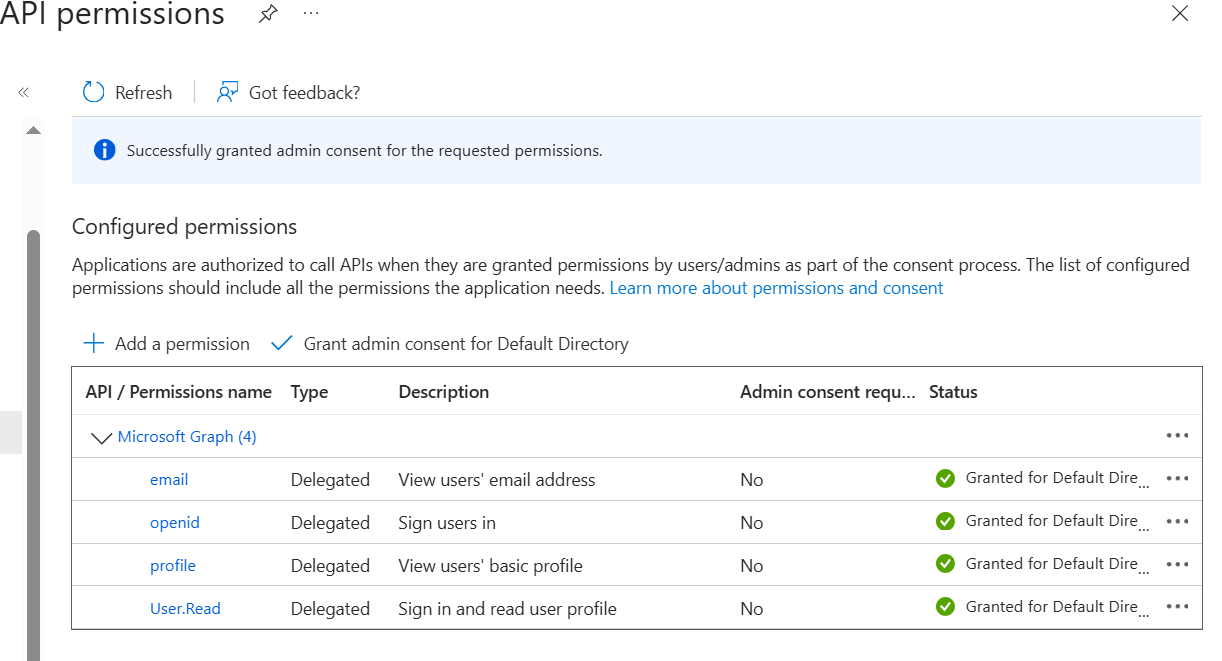
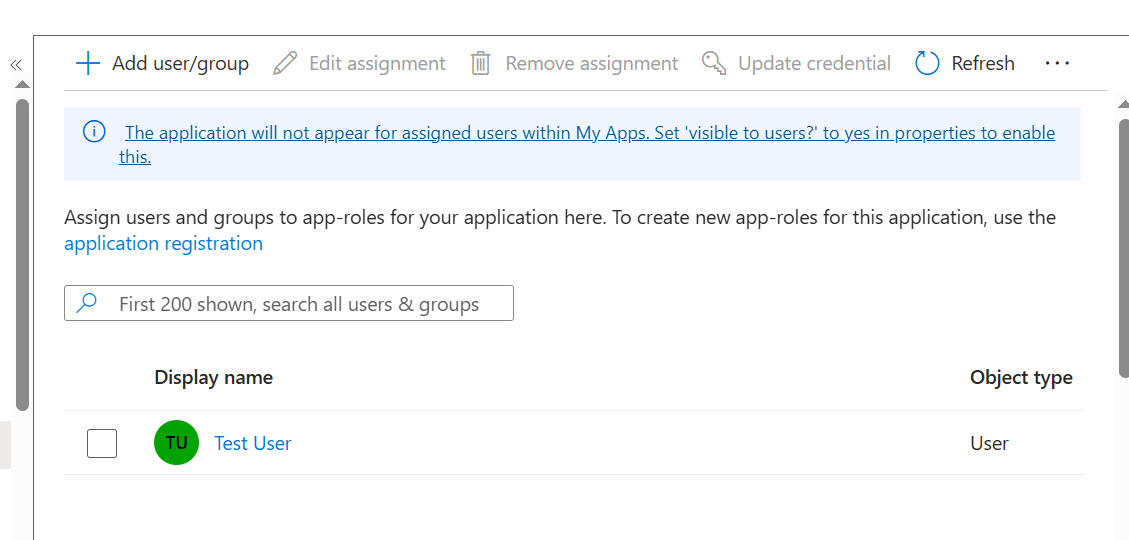
docs: address PR feedback, fix endpoints, and update screenshots

diff --git a/assets/kgw-docs/pages/security/entra-id/setup.md b/assets/kgw-docs/pages/security/entra-id/setup.md
@@ -16,14 +16,14 @@ When you finish, you choose an authentication flow:
    | **Supported account types** | Accounts in this organizational directory only |
    | **Platform** | Web |
    | **Redirect URI** | `https://www.example.com/oauth2/redirect` |
-   | **Front-channel logout URL** | `https://www.example.com` |
 
+   
    The redirect URI path is `/oauth2/redirect`, which is the default callback path that kgateway registers. You can override it with `redirectURI` in the `GatewayExtension` if needed.
 
 2. A test user created in your Entra ID directory and assigned to the App Registration.
 
 > [!IMPORTANT]
-> **Entra ID token version finding:** When you configure custom API scopes (as required for access token validation), Entra ID issues **v1.0 tokens**, even if you configure the manifest for v2.0. This means the `iss` claim will be `https://sts.windows.net/{tenant-id}/` and the JWKS endpoint will be `https://login.microsoftonline.com/{tenant-id}/discovery/keys`. This is different from the standard v2.0 endpoints (`/v2.0` and `/discovery/v2.0/keys`). You must use the v1.0 endpoints in your `GatewayExtension`.
+> By default, Entra ID issues **v1.0 access tokens** for an API that you expose on your App Registration. A v1.0 token has the `iss` claim `https://sts.windows.net/{tenant-id}/` and an `aud` claim of your Application ID URI, such as `api://{client-id}`. Its signing keys are at `https://login.microsoftonline.com/{tenant-id}/discovery/keys`. These values differ from the v2.0 values (`/v2.0` and `/discovery/v2.0/keys`), so use the v1.0 values in the access token validation flow. To get v2.0 tokens instead, set `requestedAccessTokenVersion` to `2` in the App Registration manifest.
 
 ## Configure Microsoft Entra ID
 
@@ -43,14 +43,8 @@ Kgateway is a server-side confidential client. It holds the client secret and pe
 
    {{< reuse-image src="img/entra-id/entra-create-app.png" >}}
 
-### Configure Authentication and Logout
 
-1. On the App Registration page, go to **Authentication**.
-2. Under **Front-channel logout URL**, enter `https://www.example.com`.
-3. Under **Implicit grant and hybrid flows**, leave both checkboxes unchecked (we use the Authorization Code flow).
-4. Click **Save**.
-
-### Expose an API Scope
+### Expose an API scope
 
 To use the access token validation flow, you must define a custom scope.
 
@@ -58,7 +52,7 @@ To use the access token validation flow, you must define a custom scope.
 2. Click **Set** next to Application ID URI. Accept the default `api://{client-id}` and click **Save**.
 3. Click **Add a scope**:
    * **Scope name**: `access_as_user`
-   * **Who can consent**: Admins and users
+   * **Who can consent**: Admins only
    * **Admin consent display name**: Access kgateway as the user
    * **Admin consent description**: Allows the app to access kgateway on behalf of the signed-in user
    * **State**: Enabled
@@ -66,17 +60,22 @@ To use the access token validation flow, you must define a custom scope.
 
    {{< reuse-image src="img/entra-id/entra-expose-scope.png" >}}
 
-### Copy the Client ID and Client Secret
+5. Go to **API permissions** > **Add a permission** > **My APIs** > **kgateway-app**.
+6. Select **Delegated permissions**, check `access_as_user`, and click **Add permissions**.
+7. Click **Grant admin consent for [Your Tenant]**.
 
-1. Go to **Overview** and copy the **Application (client) ID**.
+### Copy the tenant ID, client ID, and client secret
+
+1. Go to **Overview**. Copy the **Application (client) ID** and the **Directory (tenant) ID**. The flow guides use these values for `YOUR_CLIENT_ID` and `YOUR_TENANT_ID`.
 2. Go to **Certificates & secrets** > **Client secrets**, and click **New client secret**.
-3. Add a description (e.g., `kgateway-secret`) and select an expiry period. Click **Add**.
-4. **Copy the secret value immediately.** It will not be shown again.
+3. Add a description, such as `kgateway-secret`, and select an expiry period. Click **Add**.
+4. **Copy the secret value immediately.**
 
    {{< reuse-image src="img/entra-id/entra-client-credentials.png" >}}
 
+
    > [!NOTE]
-   > The Client Secret is shown only once after creation. If you lose it, you can generate a new one, but generating a new one invalidates any existing tokens.
+   > Entra ID shows the secret value only once, right after you create it. If you lose it, create a new client secret and update the Kubernetes Secret. Then delete the old client secret from the App Registration.
 
 ### Create a test user {#create-test-user}
 
@@ -90,12 +89,15 @@ To use the access token validation flow, you must define a custom scope.
 
    {{< reuse-image src="img/entra-id/entra-create-user.png" >}}
 
-5. Go back to your App Registration > **Enterprise applications** > **kgateway-app** > **Users and groups**.
+5. Go to **Applications** > **Enterprise applications** > **kgateway-app** > **Users and groups**.
 6. Click **Add user/group**, select the test user, and assign them to the app.
 
    {{< reuse-image src="img/entra-id/entra-assign-user.png" >}}
 
-   
+   > [!NOTE]
+   > User assignment only takes effect if **Assignment required?** is set to **Yes** in the Enterprise Application's Properties.
+
+
 ## Connect kgateway to Microsoft Entra ID
 
 Both authentication flows need a network path from the gateway to Entra ID. Create these two resources before configuring either flow.

diff --git a/assets/kgw-docs/pages/security/entra-id/access-token.md b/assets/kgw-docs/pages/security/entra-id/access-token.md
@@ -7,7 +7,7 @@ Complete the [Microsoft Entra ID setup]({{< link-hextra path="/security/oauth/en
 This flow does not need the client secret in a Kubernetes Secret. The gateway does not exchange an authorization code. The flow also works over HTTP because it does not use cookies.
 
 > [!IMPORTANT]
-> **Entra ID uses v1.0 tokens:** Because we configured a custom API scope, Entra ID issues v1.0 tokens. The `issuer` must be `https://sts.windows.net/{tenant-id}/` and the `jwks` URL must be `https://login.microsoftonline.com/{tenant-id}/discovery/keys`. If you use the standard v2.0 endpoints (`/v2.0`), token validation will fail.
+> By default, Entra ID issues **v1.0 access tokens** for an API that you expose on your App Registration. A v1.0 token has the `iss` claim `https://sts.windows.net/{tenant-id}/` and an `aud` claim of your Application ID URI, such as `api://{client-id}`. Its signing keys are at `https://login.microsoftonline.com/{tenant-id}/discovery/keys`. These values differ from the v2.0 values (`/v2.0` and `/discovery/v2.0/keys`), so use the v1.0 values in the access token validation flow. To get v2.0 tokens instead, set `requestedAccessTokenVersion` to `2` in the App Registration manifest.
 
 ## Configure access token validation
 
@@ -40,7 +40,7 @@ Create a `GatewayExtension` to configure token validation. Then create a `Traffi
              - api://YOUR_CLIENT_ID
    EOF
    ```
-
+   
    | **Field** | **Description** |
    | :--- | :--- |
    | `name` | A required, unique name for the provider. |
@@ -51,6 +51,7 @@ Create a `GatewayExtension` to configure token validation. Then create a `Traffi
 
    > [!NOTE]
    > The `validationMode` field is optional and defaults to `Strict`. This mode requires a valid JWT on every request. Set it to `AllowMissing` only if you want requests without a token to pass through. Pair that mode with an authorization policy that restricts those requests.
+
 
 2. Create a {{< reuse "kgw-docs/snippets/trafficpolicy.md" >}} that references the JWT GatewayExtension. Make sure that the {{< reuse "kgw-docs/snippets/trafficpolicy.md" >}} is in the same namespace as the HTTPRoute that it targets.
 
@@ -118,13 +119,29 @@ Verify the access token validation flow with these steps.
 
 2. Obtain an access token from the Entra ID authorization server.
 
-   The JWT policy validates the signature, issuer, and audience of the token you present. Use the authorization code flow in a browser to log in and copy the value of the `AccessToken` cookie set by the gateway.
+   The JWT policy validates the signature, issuer, and audience of the token that you present. Complete the [authorization code flow]({{< link-hextra path="/security/oauth/entra-id/authorization-code/" >}}) in a browser. Then copy the value of the `AccessToken-<suffix>` cookie that the gateway sets, such as `AccessToken-a1b2c3d4`.
 
    ```sh
    export TOKEN=<access-token-cookie-value>
    ```
 
-3. Send a request with the token in the `Authorization` header.
+3. Confirm that the token's `iss` and `aud` claims match your `GatewayExtension`.
+
+   ```sh
+   echo $TOKEN | jq -rR 'split(".")[1] | gsub("-"; "+") | gsub("_"; "/") | @base64d | fromjson | {iss, aud, ver}'
+   ```
+
+   Example output for a v1.0 token:
+
+   ```json
+   {
+     "iss": "https://sts.windows.net/YOUR_TENANT_ID/",
+     "aud": "api://YOUR_CLIENT_ID",
+     "ver": "1.0"
+   }
+   ```
+                        
+4. Send a request with the token in the `Authorization` header.
 
    {{< tabs >}}
    {{% tab name="Cloud Provider LoadBalancer" %}}

diff --git a/assets/kgw-docs/pages/security/entra-id/authorization-code.md b/assets/kgw-docs/pages/security/entra-id/authorization-code.md
@@ -20,9 +20,6 @@ Create the Kubernetes Secret that holds the Entra ID client secret, a `GatewayEx
 
 2. Create a GatewayExtension that holds everything the gateway needs to talk to Entra ID.
 
-   > [!IMPORTANT]
-   > **Entra ID uses v1.0 endpoints:** Because we configured a custom API scope, Entra ID issues v1.0 tokens. The `issuerURI` must point to the v1.0 endpoint (`sts.windows.net`), not the standard `/v2.0` path. If you use the v2.0 paths, token validation will fail.
-
    ```yaml
    kubectl apply -f- <<EOF
    apiVersion: gateway.kgateway.dev/v1alpha1
@@ -38,9 +35,9 @@ Create the Kubernetes Secret that holds the Entra ID client secret, a `GatewayEx
          name: entra-id
          namespace: {{< reuse "kgw-docs/snippets/namespace.md" >}}
        issuerURI: https://sts.windows.net/YOUR_TENANT_ID/
-       authorizationEndpoint: https://login.microsoftonline.com/YOUR_TENANT_ID/oauth2/authorize
-       tokenEndpoint: https://login.microsoftonline.com/YOUR_TENANT_ID/oauth2/token
-       endSessionEndpoint: https://login.microsoftonline.com/YOUR_TENANT_ID/oauth2/logout
+       authorizationEndpoint: https://login.microsoftonline.com/YOUR_TENANT_ID/oauth2/v2.0/authorize
+       tokenEndpoint: https://login.microsoftonline.com/YOUR_TENANT_ID/oauth2/v2.0/token
+       endSessionEndpoint: https://login.microsoftonline.com/YOUR_TENANT_ID/oauth2/v2.0/logout
        redirectURI: https://www.example.com/oauth2/redirect
        scopes:
          - openid
@@ -53,6 +50,7 @@ Create the Kubernetes Secret that holds the Entra ID client secret, a `GatewayEx
            name: entra-id-client-secret
    EOF
    ```
+
 
    | **Field** | **Description** |
    | :--- | :--- |
@@ -88,6 +86,8 @@ Create the Kubernetes Secret that holds the Entra ID client secret, a `GatewayEx
          name: entra-id-oauth2
          namespace: {{< reuse "kgw-docs/snippets/namespace.md" >}}
    EOF
+   ```
+
 4. Verify that the policy is attached to the route.
 
    ```sh
@@ -121,7 +121,7 @@ Create the Kubernetes Secret that holds the Entra ID client secret, a `GatewayEx
 
    ```text
    < HTTP/2 302
-   < location: https://login.microsoftonline.com/YOUR_TENANT_ID/oauth2/authorize?client_id=YOUR_CLIENT_ID&...&redirect_uri=https%3A%2F%2Fwww.example.com%2Foauth2%2Fredirect
+   < location: https://login.microsoftonline.com/YOUR_TENANT_ID/oauth2/v2.0/authorize?client_id=YOUR_CLIENT_ID&...&redirect_uri=https%3A%2F%2Fwww.example.com%2Foauth2%2Fredirect
    < set-cookie: OauthNonce-...;path=/;Max-Age=600;secure;HttpOnly
    ```
 

diff --git a/content/docs/envoy/main/security/oauth/entra-id/setup.md b/content/docs/envoy/main/security/oauth/entra-id/setup.md
@@ -1,0 +1,7 @@
+---
+title: Microsoft Entra ID setup
+weight: 10
+description: Deploy Microsoft Entra ID, register kgateway as an OAuth2 client, and give the gateway a network path to reach it.
+---
+
+{{< reuse "kgw-docs/pages/security/entra-id/setup.md" >}}

diff --git a/content/docs/envoy/main/security/oauth/entra-id/authorization-code.md b/content/docs/envoy/main/security/oauth/entra-id/authorization-code.md
@@ -1,0 +1,7 @@
+---
+title: Authorization code flow
+weight: 20
+description: Redirect browser users to Microsoft Entra ID to log in, then store their tokens in session cookies.
+---
+
+{{< reuse "kgw-docs/pages/security/entra-id/authorization-code.md" >}}

diff --git a/content/docs/envoy/main/security/oauth/entra-id/_index.md b/content/docs/envoy/main/security/oauth/entra-id/_index.md
@@ -1,0 +1,7 @@
+---
+aliases:
+  - /docs/envoy/latest/security/oauth2/entra-id/
+title: Microsoft Entra ID
+weight: 10
+description: Protect routes with Microsoft Entra ID as the identity provider, using either browser login or API token validation.
+---

diff --git a/content/docs/envoy/main/security/oauth/entra-id/access-token.md b/content/docs/envoy/main/security/oauth/entra-id/access-token.md
@@ -1,0 +1,7 @@
+---
+title: Access token validation
+weight: 30
+description: Validate an access token that an API client already holds, and reject requests without a valid one.
+---
+
+{{< reuse "kgw-docs/pages/security/entra-id/access-token.md" >}}

diff --git a/content/docs/envoy/latest/security/oauth/entra-id/setup.md b/content/docs/envoy/latest/security/oauth/entra-id/setup.md
@@ -1,4 +1,4 @@
----
+---
 title: Microsoft Entra ID setup
 weight: 10
 description: Deploy Microsoft Entra ID, register kgateway as an OAuth2 client, and give the gateway a network path to reach it.

diff --git a/content/docs/envoy/latest/security/oauth/entra-id/access-token.md b/content/docs/envoy/latest/security/oauth/entra-id/access-token.md
@@ -1,4 +1,4 @@
----
+---
 title: Access token validation
 weight: 30
 description: Validate an access token that an API client already holds, and reject requests without a valid one.

diff --git a/content/docs/envoy/latest/security/oauth/entra-id/authorization-code.md b/content/docs/envoy/latest/security/oauth/entra-id/authorization-code.md
@@ -1,4 +1,4 @@
----
+---
 title: Authorization code flow
 weight: 20
 description: Redirect browser users to Microsoft Entra ID to log in, then store their tokens in session cookies.

diff --git a/content/docs/envoy/latest/security/oauth/entra-id/_index.md b/content/docs/envoy/latest/security/oauth/entra-id/_index.md
@@ -1,4 +1,4 @@
----
+---
 aliases:
   - /docs/envoy/latest/security/oauth2/entra-id/
 title: Microsoft Entra ID
